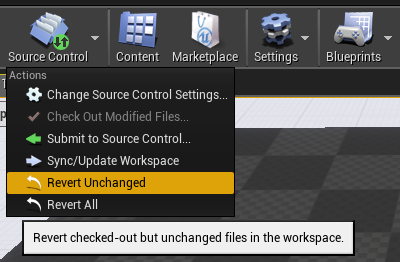
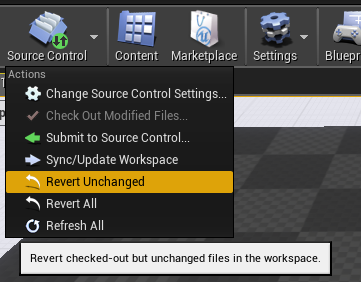
Fix #44 Add a top-menu Refresh operation
Update the corresponding screenshot for the README

diff --git a/Source/PlasticSourceControl/Private/PlasticSourceControlMenu.cpp b/Source/PlasticSourceControl/Private/PlasticSourceControlMenu.cpp
@@ -45,6 +45,12 @@ void FPlasticSourceControlMenu::Unregister()
 	}
 }
 
+bool FPlasticSourceControlMenu::IsSourceControlConnected() const
+{
+	const ISourceControlProvider& Provider = ISourceControlModule::Get().GetProvider();
+	return Provider.IsEnabled() && Provider.IsAvailable();
+}
+
 void FPlasticSourceControlMenu::SyncProjectClicked()
 {
 	if (!SyncOperation.IsValid())
@@ -138,6 +144,35 @@ void FPlasticSourceControlMenu::RevertAllClicked()
 	}
 }
 
+void FPlasticSourceControlMenu::RefreshClicked()
+{
+	if (!RefreshOperation.IsValid())
+	{
+		// Launch an "UpdateStatus" Operation
+		ISourceControlModule& SourceControl = FModuleManager::LoadModuleChecked<ISourceControlModule>("SourceControl");
+		FPlasticSourceControlProvider& Provider = static_cast<FPlasticSourceControlProvider&>(SourceControl.GetProvider());
+		RefreshOperation = ISourceControlOperation::Create<FUpdateStatus>();
+		RefreshOperation->SetCheckingAllFiles(true);
+		RefreshOperation->SetGetOpenedOnly(true);
+		ECommandResult::Type Result = Provider.Execute(RefreshOperation.ToSharedRef(), TArray<FString>(), EConcurrency::Asynchronous, FSourceControlOperationComplete::CreateRaw(this, &FPlasticSourceControlMenu::OnSourceControlOperationComplete));
+		if (Result == ECommandResult::Succeeded)
+		{
+			// Display an ongoing notification during the whole operation
+			DisplayInProgressNotification(RefreshOperation.ToSharedRef());
+		}
+		else
+		{
+			// Report failure with a notification
+			DisplayFailureNotification(RefreshOperation.ToSharedRef());
+			RefreshOperation.Reset();
+		}
+	}
+	else
+	{
+		UE_LOG(LogSourceControl, Warning, TEXT("Source control operation already in progress!"));
+	}
+}
+
 // Display an ongoing notification during the whole operation
 void FPlasticSourceControlMenu::DisplayInProgressNotification(const FSourceControlOperationRef& InOperation)
 {
@@ -169,7 +204,7 @@ void FPlasticSourceControlMenu::RemoveInProgressNotification()
 void FPlasticSourceControlMenu::DisplaySucessNotification(const FSourceControlOperationRef& InOperation)
 {
 	const FText NotificationText = FText::Format(
-		LOCTEXT("SourceControlMenu_Success", "{0} operation was successfull!"),
+		LOCTEXT("SourceControlMenu_Success", "{0} operation was successful!"),
 		FText::FromName(InOperation->GetName())
 	);
 	FNotificationInfo Info(NotificationText);
@@ -208,6 +243,15 @@ void FPlasticSourceControlMenu::OnSourceControlOperationComplete(const FSourceCo
 	{
 		check(RevertAllOperation == StaticCastSharedRef<FPlasticRevertAll>(InOperation));
 		RevertAllOperation.Reset();
+	}
+	else if (InOperation->GetName() == "UpdateStatus")
+	{
+		check(RefreshOperation == StaticCastSharedRef<FUpdateStatus>(InOperation));
+		RefreshOperation.Reset();
+	}
+	else
+	{
+		UE_LOG(LogSourceControl, Error, TEXT("Unknown operation '%s'"), *InOperation->GetName().ToString());
 	}
 
 	RemoveInProgressNotification();
@@ -251,6 +295,16 @@ void FPlasticSourceControlMenu::AddMenuExtension(FMenuBuilder& Builder)
 		FSlateIcon(FEditorStyle::GetStyleSetName(), "SourceControl.Actions.Revert"),
 		FUIAction(
 			FExecuteAction::CreateRaw(this, &FPlasticSourceControlMenu::RevertAllClicked),
+			FCanExecuteAction()
+		)
+	);
+
+	Builder.AddMenuEntry(
+		LOCTEXT("PlasticRefresh",			"Refresh All"),
+		LOCTEXT("PlasticRefreshTooltip",	"Update the source control status of all files in the workspace."),
+		FSlateIcon(FEditorStyle::GetStyleSetName(), "SourceControl.Actions.Refresh"),
+		FUIAction(
+			FExecuteAction::CreateRaw(this, &FPlasticSourceControlMenu::RefreshClicked),
 			FCanExecuteAction()
 		)
 	);

diff --git a/Source/PlasticSourceControl/Private/PlasticSourceControlOperations.cpp b/Source/PlasticSourceControl/Private/PlasticSourceControlOperations.cpp
@@ -497,15 +497,11 @@ bool FPlasticUpdateStatusWorker::Execute(FPlasticSourceControlCommand& InCommand
 	}
 	else
 	{
-		UE_LOG(LogSourceControl, Log, TEXT("status (with no files)"));
-		// Perforce "opened files" are those that have been modified (or added/deleted): that is what we get with a simple Plastic status from the root
-		if (Operation->ShouldGetOpenedOnly())
-		{
-			// UpdateStatus() from the ContentDir()
-			TArray<FString> Files;
-			Files.Add(FPaths::ConvertRelativePathToFull(FPaths::ProjectDir()));
-			InCommand.bCommandSuccessful = PlasticSourceControlUtils::RunUpdateStatus(Files, InCommand.Concurrency, InCommand.ErrorMessages, States, InCommand.ChangesetNumber, InCommand.BranchName);
-		}
+		// no path provided: only update the status of assets in Content/ directory and also Config files
+		TArray<FString> ProjectDirs;
+		ProjectDirs.Add(FPaths::ConvertRelativePathToFull(FPaths::ProjectContentDir()));
+		ProjectDirs.Add(FPaths::ConvertRelativePathToFull(FPaths::ProjectConfigDir()));
+		InCommand.bCommandSuccessful = PlasticSourceControlUtils::RunUpdateStatus(ProjectDirs, InCommand.Concurrency, InCommand.ErrorMessages, States, InCommand.ChangesetNumber, InCommand.BranchName);
 	}
 
 	// don't use the ShouldUpdateModifiedState() hint here as it is specific to Perforce: the above normal Plastic status has already told us this information (like Git and Mercurial)

diff --git a/Source/PlasticSourceControl/Private/PlasticSourceControlMenu.h b/Source/PlasticSourceControl/Private/PlasticSourceControlMenu.h
@@ -22,8 +22,11 @@ public:
 	void SyncProjectClicked();
 	void RevertUnchangedClicked();
 	void RevertAllClicked();
+	void RefreshClicked();
 
 private:
+	bool IsSourceControlConnected() const;
+
 	void AddMenuExtension(FMenuBuilder& Builder);
 
 	TSharedRef<class FExtender> OnExtendLevelEditorViewMenu(const TSharedRef<class FUICommandList> CommandList);
@@ -37,10 +40,10 @@ private:
 	FDelegateHandle ViewMenuExtenderHandle;
 
 	/** Current source control operation from menu if any */
-	// TODO: move back to the cpp file (and remove corresponding include files)
 	TSharedPtr<FSync, ESPMode::ThreadSafe> SyncOperation;
 	TSharedPtr<FPlasticRevertUnchanged, ESPMode::ThreadSafe> RevertUnchangedOperation;
 	TSharedPtr<FPlasticRevertAll, ESPMode::ThreadSafe> RevertAllOperation;
+	TSharedPtr<FUpdateStatus, ESPMode::ThreadSafe> RefreshOperation;
 	TWeakPtr<class SNotificationItem> OperationInProgressNotification;
 	/** Delegate called when a source control operation has completed */
 	void OnSourceControlOperationComplete(const FSourceControlOperationRef& InOperation, ECommandResult::Type InResult);

diff --git a/Source/PlasticSourceControl/Private/PlasticSourceControlUtils.cpp b/Source/PlasticSourceControl/Private/PlasticSourceControlUtils.cpp
@@ -664,13 +664,13 @@ static void ParseFileStatusResult(const TArray<FString>& InFiles, const TArray<F
 	FString RepositoryName, ServerUrl;
 	ParseWorkspaceInformation(InResults, OutChangeset, RepositoryName, ServerUrl, OutBranchName);
 
-	// Iterate on each file explicitely listed in the command
+	// Iterate on each file explicitly listed in the command
 	for (const FString& File : InFiles)
 	{
 		FPlasticSourceControlState FileState(File);
 
 		// Search the file in the list of status
-		// NOTE: in case of rename by editor, there are two results: checkouted AND renamed
+		// NOTE: in case of rename by editor, there are two results: checked-out AND renamed
 		// => we want to get the second one, witch is always the rename, so we search from the end
 		int32 IdxResult = InResults.FindLastByPredicate(FPlasticStatusFileMatcher(File));
 		if (IdxResult != INDEX_NONE)

diff --git a/Source/PlasticSourceControl/Private/SPlasticSourceControlSettings.cpp b/Source/PlasticSourceControl/Private/SPlasticSourceControlSettings.cpp
@@ -553,7 +553,7 @@ void SPlasticSourceControlSettings::RemoveInProgressNotification()
 // Display a temporary success notification at the end of the operation
 void SPlasticSourceControlSettings::DisplaySuccessNotification(const FName& InOperationName)
 {
-	const FText NotificationText = FText::Format(LOCTEXT("InitWorkspace_Success", "{0} operation was successfull!"), FText::FromName(InOperationName));
+	const FText NotificationText = FText::Format(LOCTEXT("InitWorkspace_Success", "{0} operation was successful!"), FText::FromName(InOperationName));
 	FNotificationInfo Info(NotificationText);
 	Info.bUseSuccessFailIcons = true;
 	Info.Image = FEditorStyle::GetBrush(TEXT("NotificationList.SuccessImage"));
